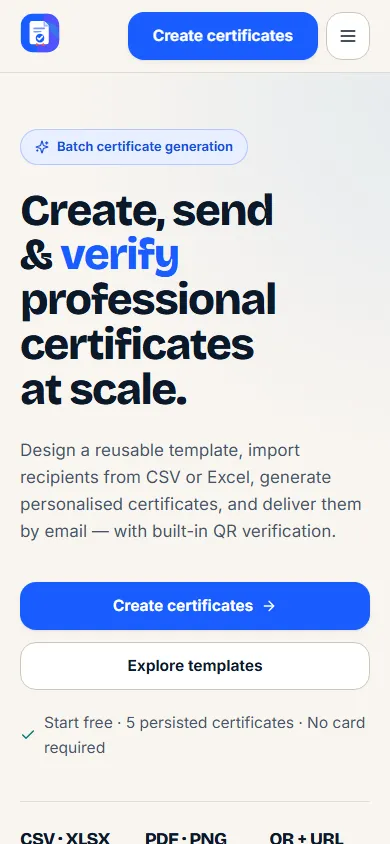
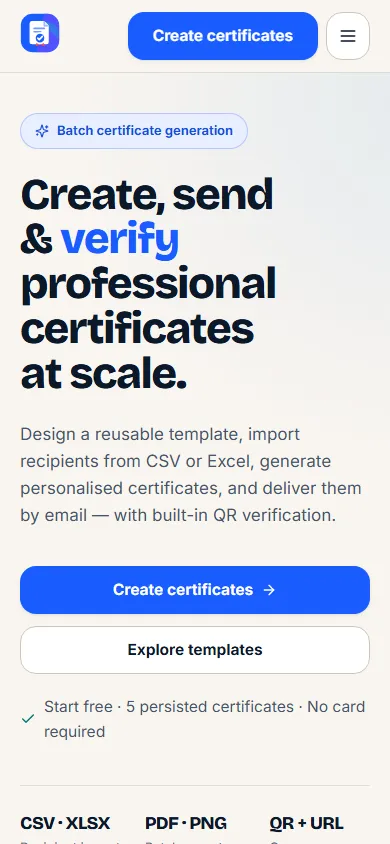
docs: add signed-in review captures and refresh the public set
Adds dashboard, history, and templates captures so the PR shows the design
system applied behind the login, not just in front of it. Taken against the
local Firebase emulator with the seeded fixture — no production data.

Records how to reproduce the full signed-in set (8 routes x 2 widths x 2
themes) rather than committing 32 screenshots.

diff --git a/docs/review/README.md b/docs/review/README.md
@@ -22,6 +22,29 @@ all, so these are new surfaces rather than comparisons:
 | Landing, 1440×1000, dark | `landing-desktop-dark.webp` |
 | Login, 1440×1000, dark | `login-desktop-dark.webp` |
 
+## Signed-in application
+
+The application palette now mirrors the public one, so these are captures of
+the same design system applied behind the login. Taken against the local
+Firebase emulator with the seeded `user-a@example.test` fixture — no production
+data.
+
+| View | Capture |
+| --- | --- |
+| Dashboard, 1440×1000, light | `app-dashboard-light.webp` |
+| Dashboard, 1440×1000, dark | `app-dashboard-dark.webp` |
+| History, 390×844, light | `app-history-mobile.webp` |
+| Templates, 390×844, dark | `app-templates-mobile-dark.webp` |
+
+Reproduce the full signed-in set (8 routes × 2 widths × 2 themes) by starting
+the emulator, seeding it, and running the app against it:
+
+```powershell
+pnpm emulators          # terminal 1
+pnpm seed:emulator      # terminal 2
+pnpm dev:emulator       # terminal 2
+```
+
 The mobile-header pair is a crop of the same page at the same width, isolating
 three defects the runtime audit found. Before: the theme toggle is the
 application's amber gradient rather than the marketing palette, "Start free"
